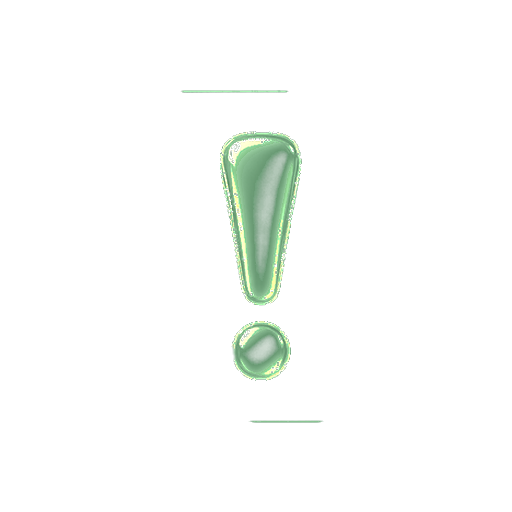
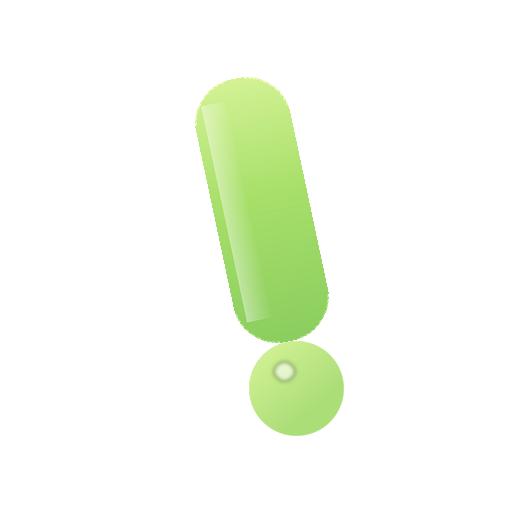
Header bang v2: solid lime mark, drop dark-glass PNG
Replace murky black-core bang-mark with transparent solid #a8e06a
lime bang (v2 cache-bust). Night .brand-mark tile is bright lime,
not charcoal. Do not use the dark-glass 3D photo for the header tile.

Changed region(s): [[0.3438, 0.125, 0.6875, 0.875]]

diff --git a/src/styles.css b/src/styles.css
@@ -661,12 +661,12 @@ html[data-skin="ivory"] .brand-word {
   display: grid;
   place-items: center;
   overflow: hidden;
-  /* Brand-green tile behind bang-only mark — never near-black plate */
-  background: linear-gradient(180deg, #6b9e78 0%, #4e8660 48%, #3d6a48 100%);
+  /* Visibly lime/mint tile on night — never charcoal/black plate */
+  background: linear-gradient(180deg, #a8e06a 0%, #7bc45a 48%, #5aa84e 100%);
   box-shadow:
-    inset 0 1px 0 rgba(255, 255, 255, 0.28),
+    inset 0 1px 0 rgba(255, 255, 255, 0.38),
     0 2px 6px rgba(0, 0, 0, 0.28),
-    0 0 0 1px rgba(47, 107, 60, 0.55);
+    0 0 0 1px rgba(47, 120, 60, 0.55);
 }
 .brand-mark img {
   grid-area: 1 / 1;

diff --git a/src/components/brand-lockup.tsx b/src/components/brand-lockup.tsx
@@ -1,9 +1,9 @@
 function BangMark({ className }: { className: string }) {
   return (
     <span className={`brand-mark ${className}`} aria-hidden>
-      {/* Bang-only 3D mark on transparent; brand-green CSS tile (night + ivory). */}
+      {/* Solid brand-lime bang on transparent (v2) — no dark-glass photo cores. */}
       <img
-        src="/kilode-bang-mark.png"
+        src="/kilode-bang-mark-v2.png"
         alt=""
         className="h-full w-full object-contain p-[12%]"
         draggable={false}
